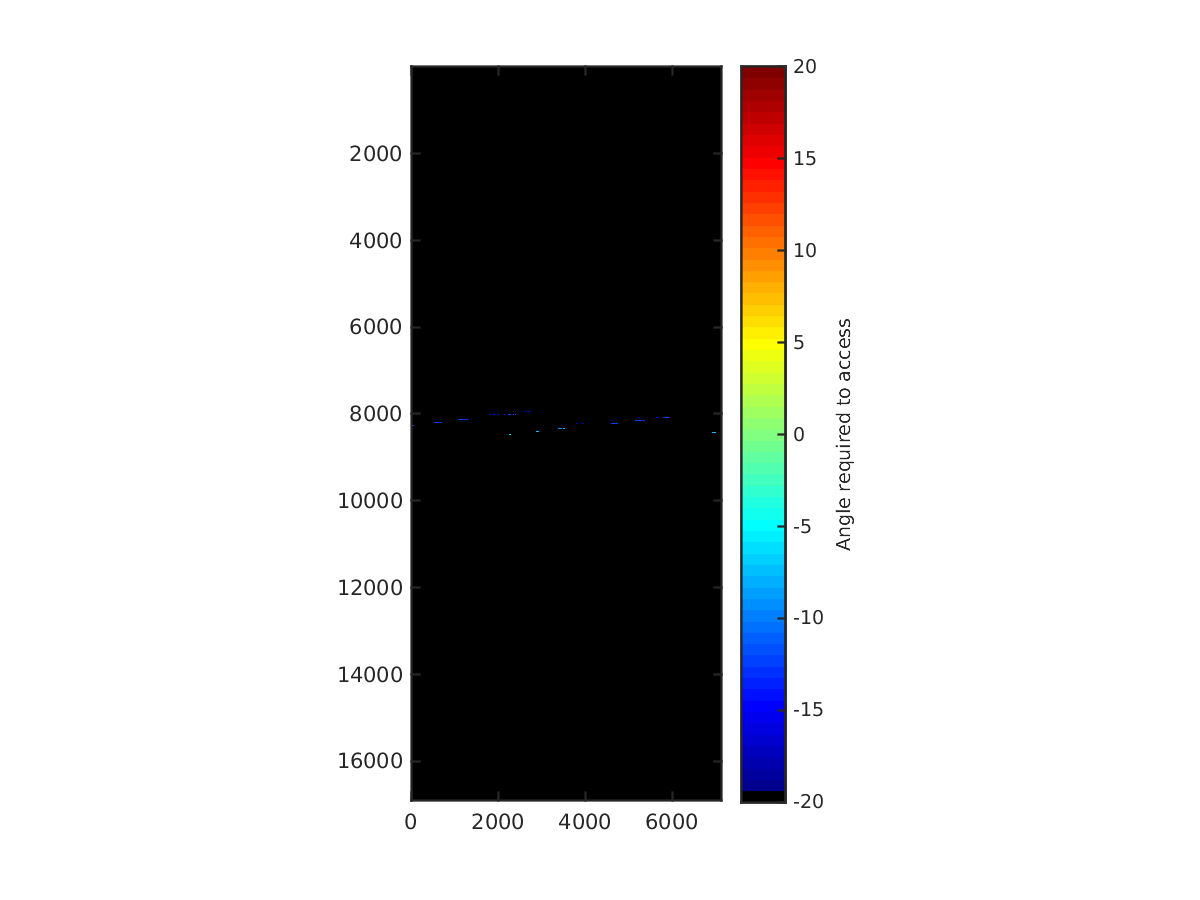
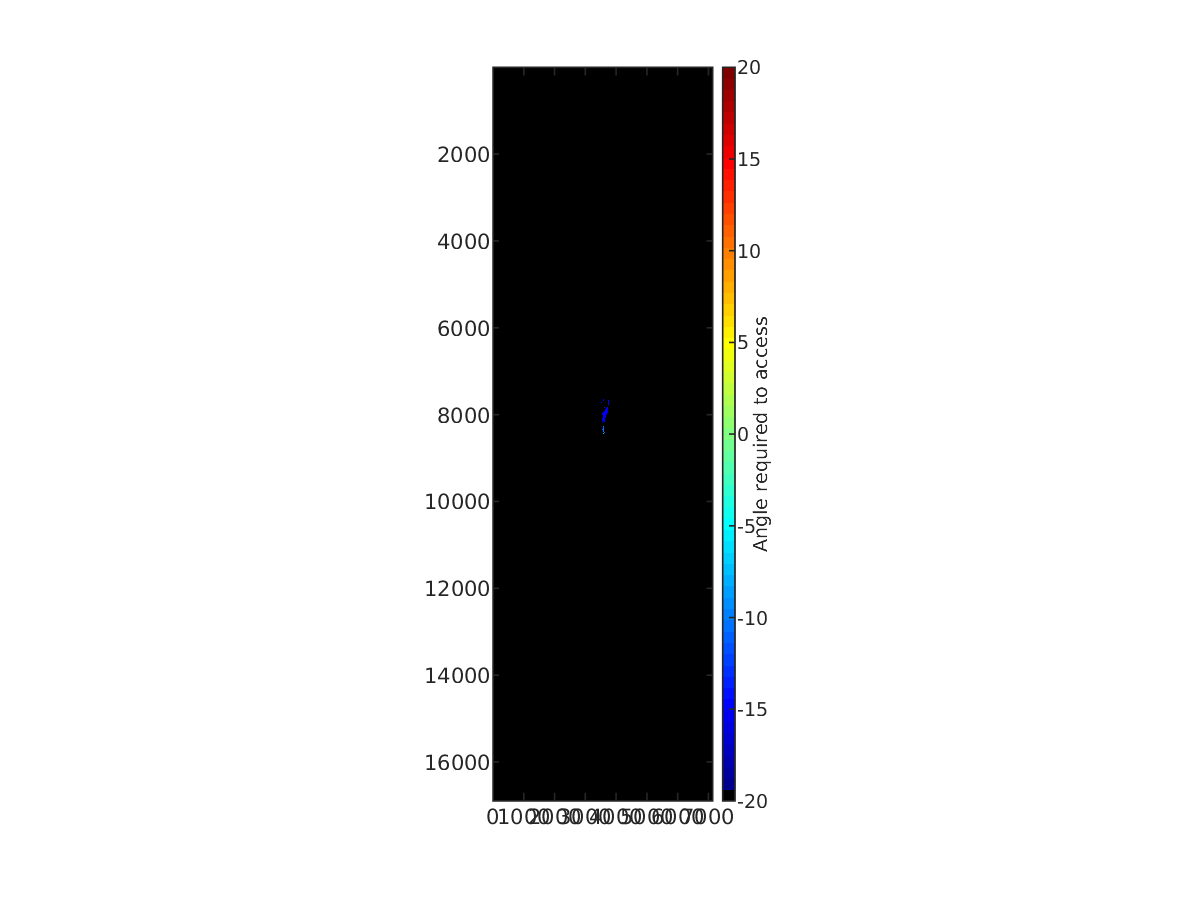
Hmmmmm maybe??

Changed region(s): [[0.2775, 0.0622, 0.7092, 0.9333]]

diff --git a/src/dijsktra.go b/src/dijsktra.go
@@ -43,20 +43,21 @@ func dijkstra(shape [2]int, dtmptr, max_anglesptr *[][]float64, startpos Positio
 			if fits(neighbor) {
 				count++
 				diff := dtm[neighbor.x][neighbor.y] - dtm[node.x][node.y]
+				avg_diff = (avg_diff + diff) / 2.0
 				alt := math.Max(math.Abs(node.HeightDiff), math.Abs(diff))
 				if alt < math.Abs(max_angles[neighbor.x][neighbor.y]) {
 					if math.Abs(node.HeightDiff) < math.Abs(diff) {
-						avg_diff = (avg_diff + node.HeightDiff) / 2.0
-						max_angles[neighbor.x][neighbor.y] = node.HeightDiff
-						fr.PushEl(&Element{Position: neighbor, HeightDiff: node.HeightDiff})
-					} else {
-						avg_diff = (avg_diff + diff) / 2.0
 						max_angles[neighbor.x][neighbor.y] = diff
 						fr.PushEl(&Element{Position: neighbor, HeightDiff: diff})
+					} else {
+						max_angles[neighbor.x][neighbor.y] = node.HeightDiff
+						fr.PushEl(&Element{Position: neighbor, HeightDiff: node.HeightDiff})
 					}
 				}
 			}
 		}
 	}
 	fmt.Println("Pixels visited:", count)
+	fmt.Println("iff:", avg_diff)
+	return
 }

diff --git a/src/writer.go b/src/writer.go
@@ -17,16 +17,17 @@ func Float64frombytes(bytes []byte) float64 {
 func Float64bytes(float float64) []byte {
 	bits := math.Float64bits(float)
 	bytes := make([]byte, 8)
-	binary.LittleEndian.PutUint64(bytes, bits)
+	// binary.LittleEndian.PutUint64(bytes, bits)
+	binary.BigEndian.PutUint64(bytes, bits)
 	return bytes
 }
 
-func WriteArray(arrptr *[][]float64, filename string) {
-	f, _ := os.Create(filename)
+func WriteArray(arrptr *[][]float64, outfile string) {
+	arr := *arrptr
+	f, _ := os.Create(outfile)
 	writer := bufio.NewWriter(f)
 	defer f.Close()
 
-	arr := *arrptr
 	for x := 0; x < len(arr); x++ {
 		for y := 0; y < len(arr[x]); y++ {
 			writer.Write(Float64bytes(arr[x][y]))

diff --git a/src/main.go b/src/main.go
@@ -63,7 +63,7 @@ func main() {
 		for y := 0; y < shape[1]; y++ {
 			if val := units[0].FloatAt(x, y); val > minval {
 				good_pixels++
-				dtm[x][y] = val
+				dtm[x][y] = val + minval
 				max_angles[x][y] = math.Inf(1)
 			} else {
 				dtm[x][y] = math.NaN()
@@ -74,7 +74,6 @@ func main() {
 	fmt.Println("Good pixels:", good_pixels)
 
 	dijkstra(shape, &dtm, &max_angles, startpos)
-
-	WriteArray(&max_angles, strings.Replace(dataset, ".fits", ".csv", 1))
+	WriteArray(&max_angles, strings.Replace(dataset, ".fits", ".bin", 1))
 
 }

diff --git a/code/load_and_plot.m b/code/load_and_plot.m
@@ -1,9 +1,9 @@
 function load_and_plot(ds)
   % load(strcat('../data/', ds, '.mat'));
-  fileID = fopen(strcat('../data/', ds, '.mat'));
+  fileID = fopen(strcat('../data/', ds, '.bin'));
   site = LandingSite(ds);
   data_size = [site.label.image.lines, site.label.image.linesamples];
-  max_angles = fread(fileID, data_size, 'double');
+  max_angles = fread(fileID, data_size, 'double', 0, 'b');
   max_angles(max_angles == Inf) = NaN;
   max_angles = atand(max_angles);
   low = max(min(max_angles(:)), -20);
